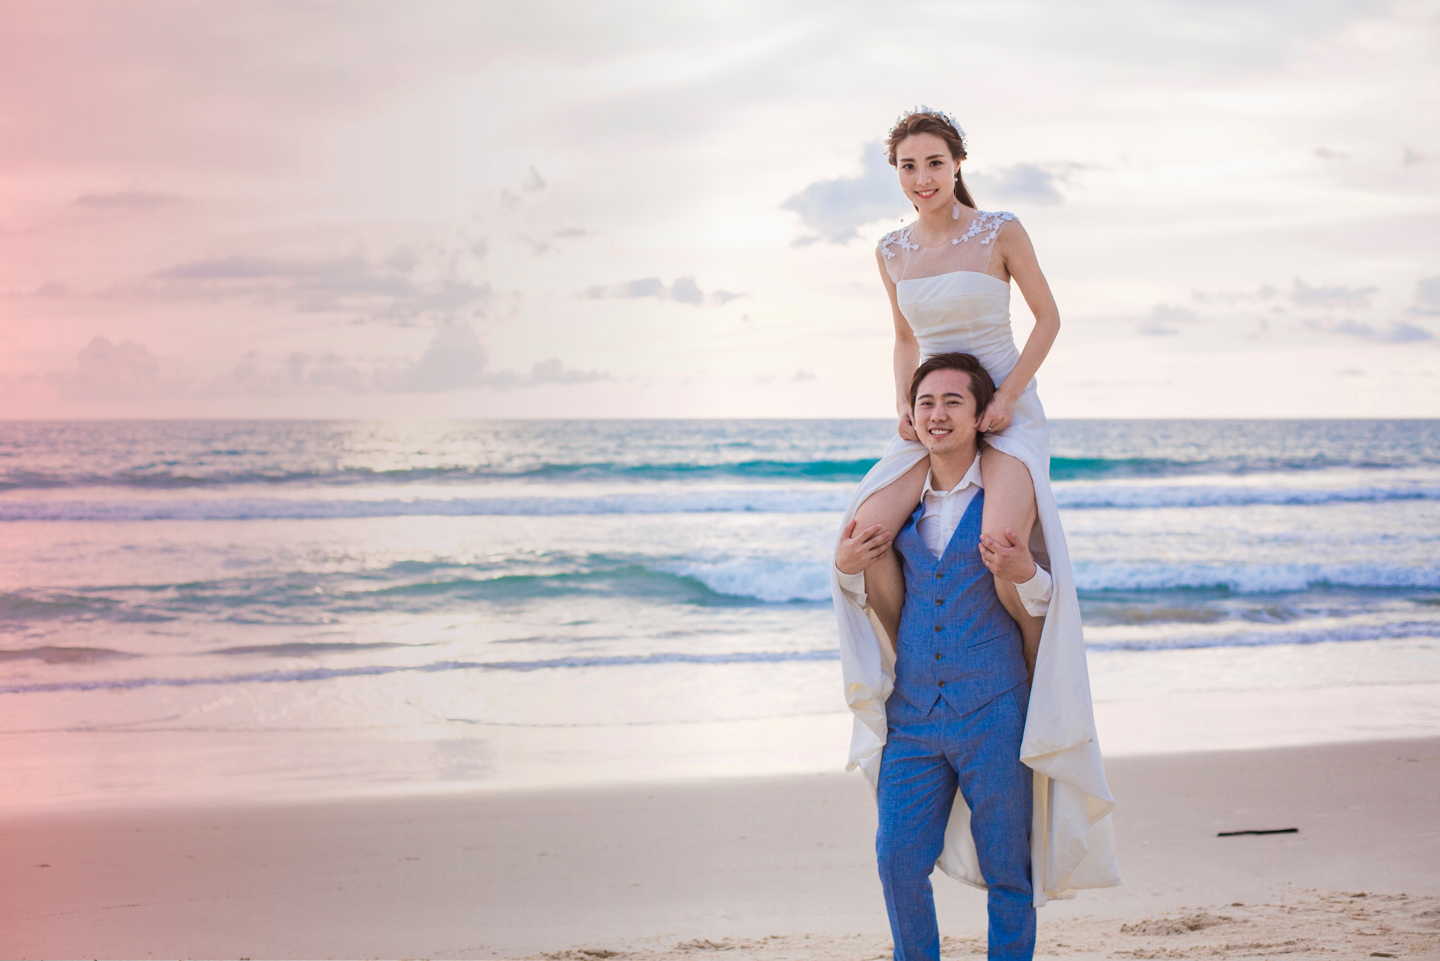
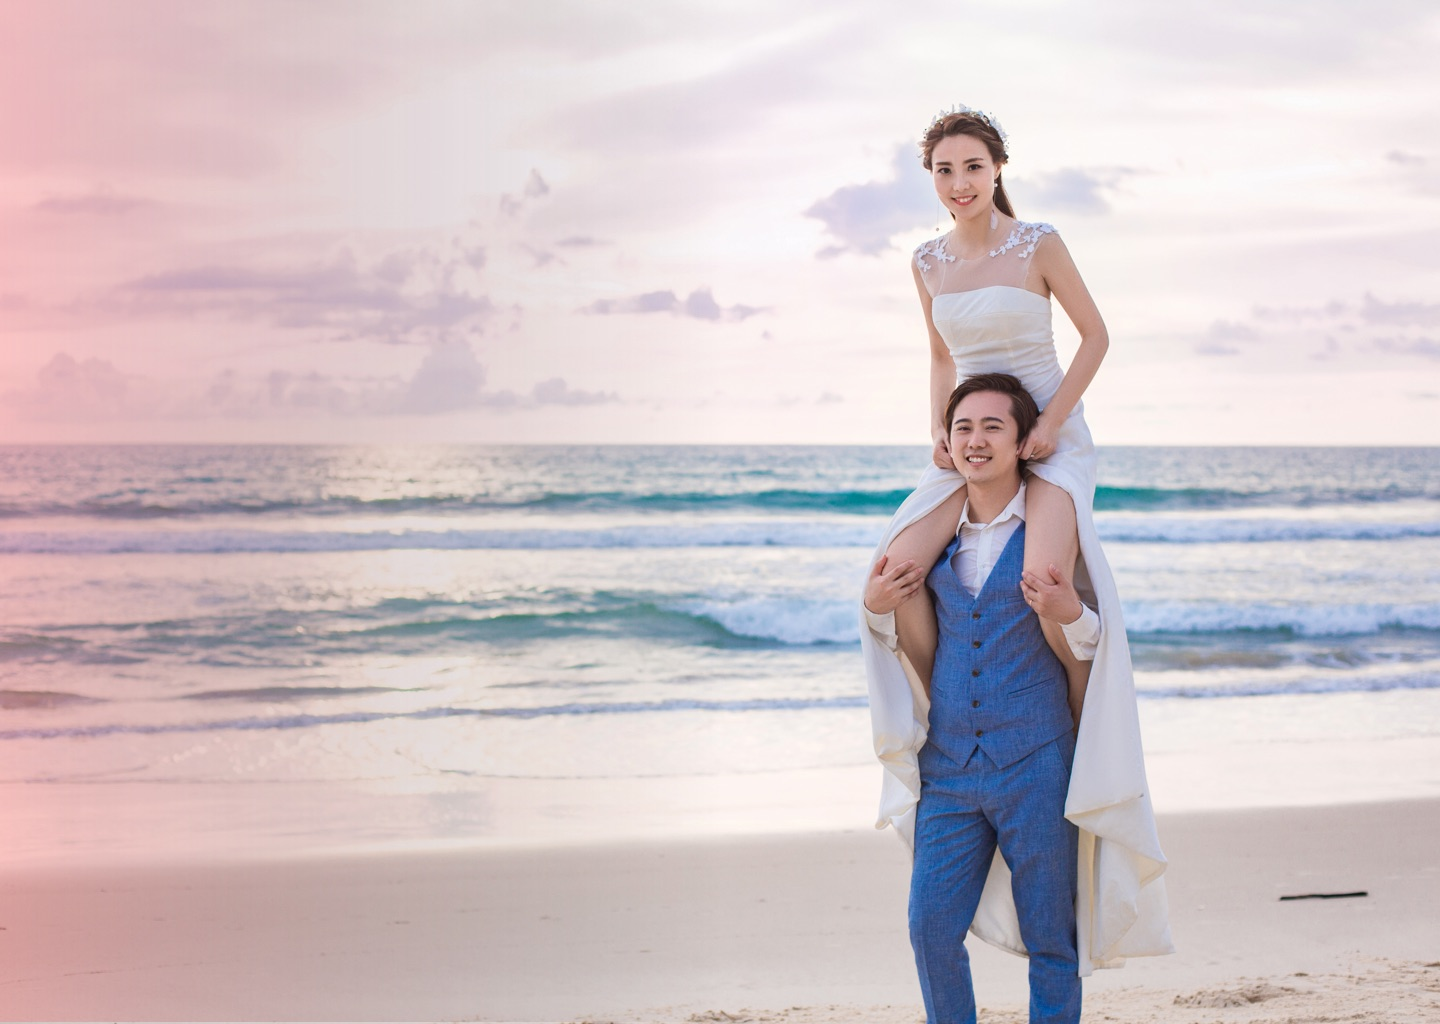
start to use pure Grids

diff --git a/index.html b/index.html
@@ -3,19 +3,45 @@
   <head>
     <meta charset="utf-8">
     <meta name="viewport" content="width=device-width, initial-scale=1">
-    <title></title>
-    <link rel="stylesheet" href="https://unpkg.com/purecss@1.0.0/build/pure-min.css" integrity="sha384-nn4HPE8lTHyVtfCBi5yW9d20FjT8BJwUXyWZT9InLYax14RDjBj46LmSztkmNP9w" crossorigin="anonymous">
+    <title>Allen &hearts; Cece</title>
+    <link rel="stylesheet" href="bower_components/pure/pure-min.css">
+    <link rel="stylesheet" href="bower_components/pure/grids-responsive-min.css">
     <link rel="stylesheet" href="static/style/main.css">
   </head>
   <body>
 
     <div class="screen_container_1">
-      <img src="static/img/heartshape.png" alt="">
+
+      <div class="pure-g">
+          <div class="pure-u-1 pure-u-md-1-2">
+            <img src="static/img/heartshape.png" alt="">
+          </div>
+          <div class="pure-u-1 pure-u-md-1-2"></div>
+      </div>
+
     </div>
 
     <div class="screen_container_2">
+      <div class="pure-g">
+        <div class="pure-u-1 pure-u-md-1-2"></div>
+        <div class="pure-u-1 pure-u-md-1-2">
+          <h3>诚挚邀请您参加</h3>
+          <h4>龚雪 Allen Gong &amp; 杨鸽 Cece Yang</h4>
+          <p>
+            时间：2017年11月12日中午11时28分
+          </p>
+          <p>
+            席设：龚家花园
+          </p>
+          <p>
+            地址：上海市崇明竖新镇光明中路1032号
+          </p>
+        </div>
+      </div>
 
     </div>
+
+
 
   </body>
 </html>

diff --git a/static/style/main.css b/static/style/main.css
@@ -1,1 +1,1 @@
-.screen_container_1{background:url(../img/bg_screen_1.jpg) no-repeat top center;background-size:cover;width:100%;height:88%;top:0;left:0;position:fixed !important}.screen_container_2{background:url(../img/bg_screen_2.jpg) no-repeat top center;background-size:cover;width:100%;height:88%;position:absolute;top:80%;left:0}@media screen and (max-width:768px){.laifu .nav-category{margin-top:0}.laifu .nav-category ul li{width:18%}}
+.screen_container_1{background:url(../img/bg_screen_1.jpg) no-repeat top center;background-size:cover;width:100%;height:88%;top:0;left:0;position:fixed !important}.screen_container_2{background:url(../img/bg_screen_2.jpg) no-repeat top center;background-size:cover;width:100%;height:88%;position:absolute;top:80%;left:0;color:#fff}@media screen and (max-width:1440px){.screen_container_1{background:url(../img/bg_screen_1.jpg) no-repeat top center;top:0;left:0;position:fixed !important}}@media screen and (max-width:768px){.laifu .nav-category{margin-top:0}.laifu .nav-category ul li{width:18%}}

diff --git a/static/style/main.less b/static/style/main.less
@@ -3,6 +3,7 @@ body {
 
 }
 
+
 .screen_container_1 {
   background: url(../img/bg_screen_1.jpg) no-repeat top center;
   background-size: cover;
@@ -14,6 +15,9 @@ body {
   position: fixed !important;
 }
 
+
+
+
 .screen_container_2 {
   background: url(../img/bg_screen_2.jpg) no-repeat top center;
   background-size: cover;
@@ -22,6 +26,19 @@ body {
   position: absolute;
   top: 80%;
   left: 0;
+  color: #fff;
+}
+
+/* Responsive: mobile version < 1440px */
+@media screen and (max-width: 1440px) {
+
+  .screen_container_1 {
+    background: url(../img/bg_screen_1.jpg) no-repeat top center;
+    top: 0;
+    left: 0;
+    position: fixed !important;
+  }
+
 }
 
 @import "mobile.less";
